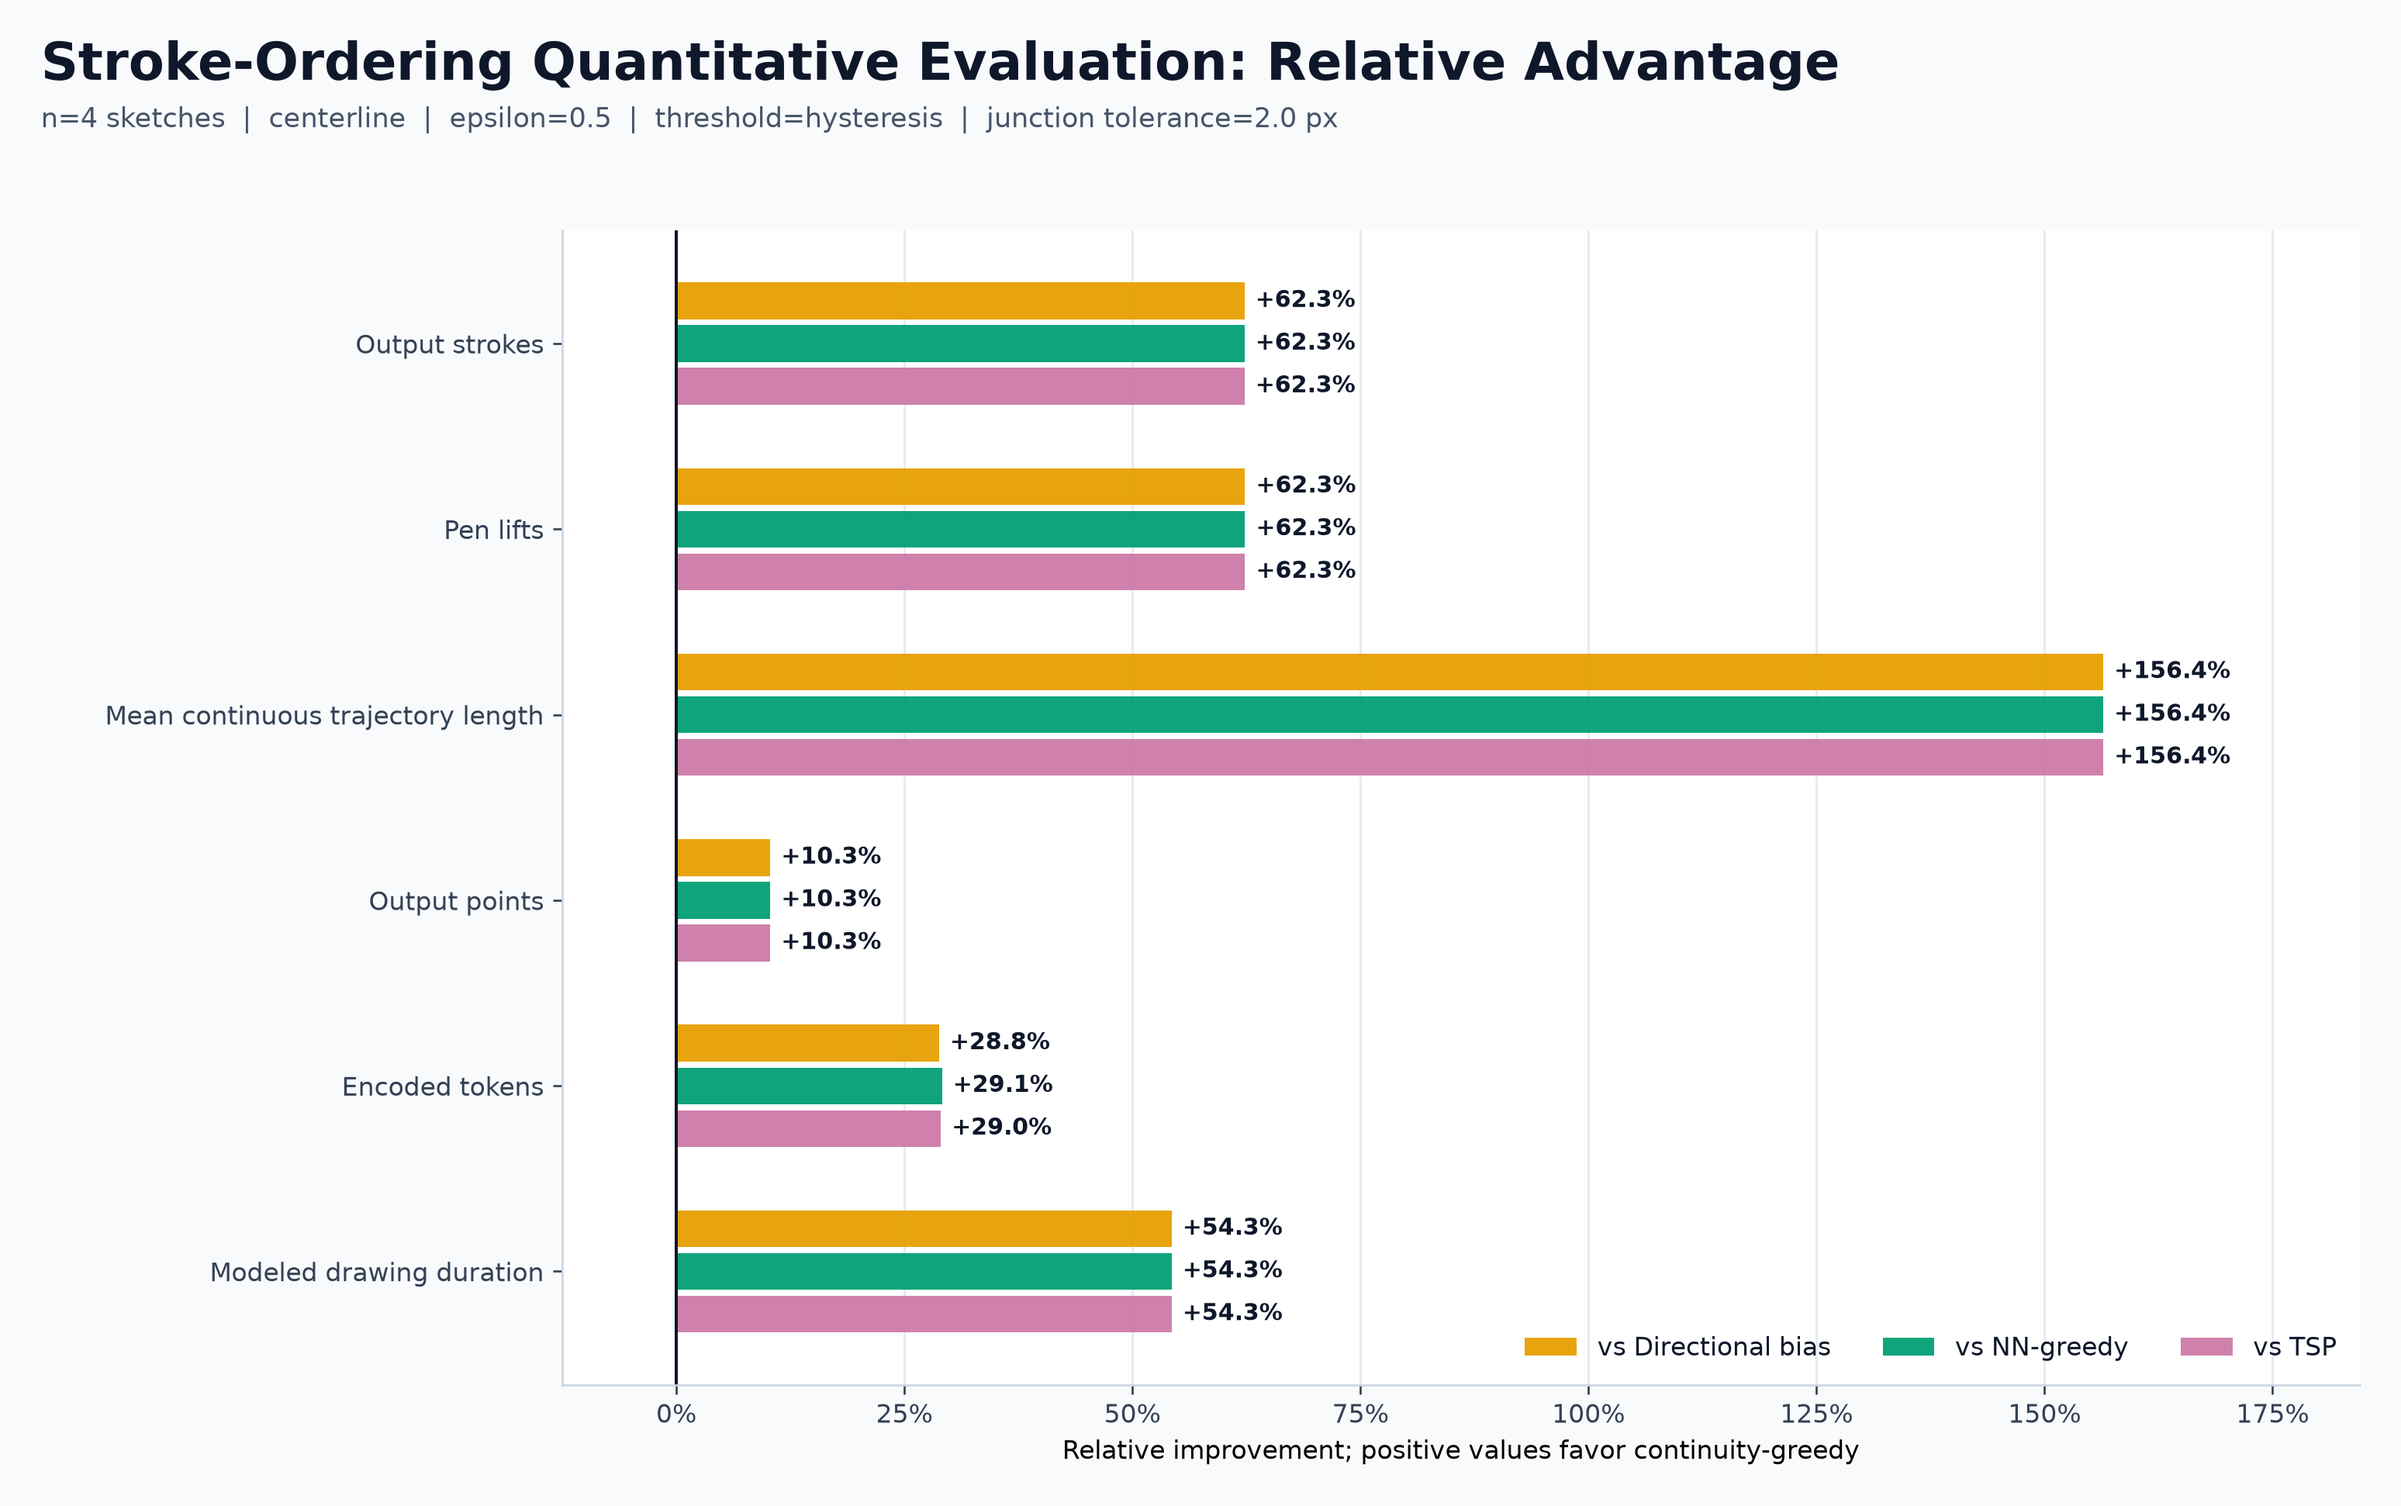
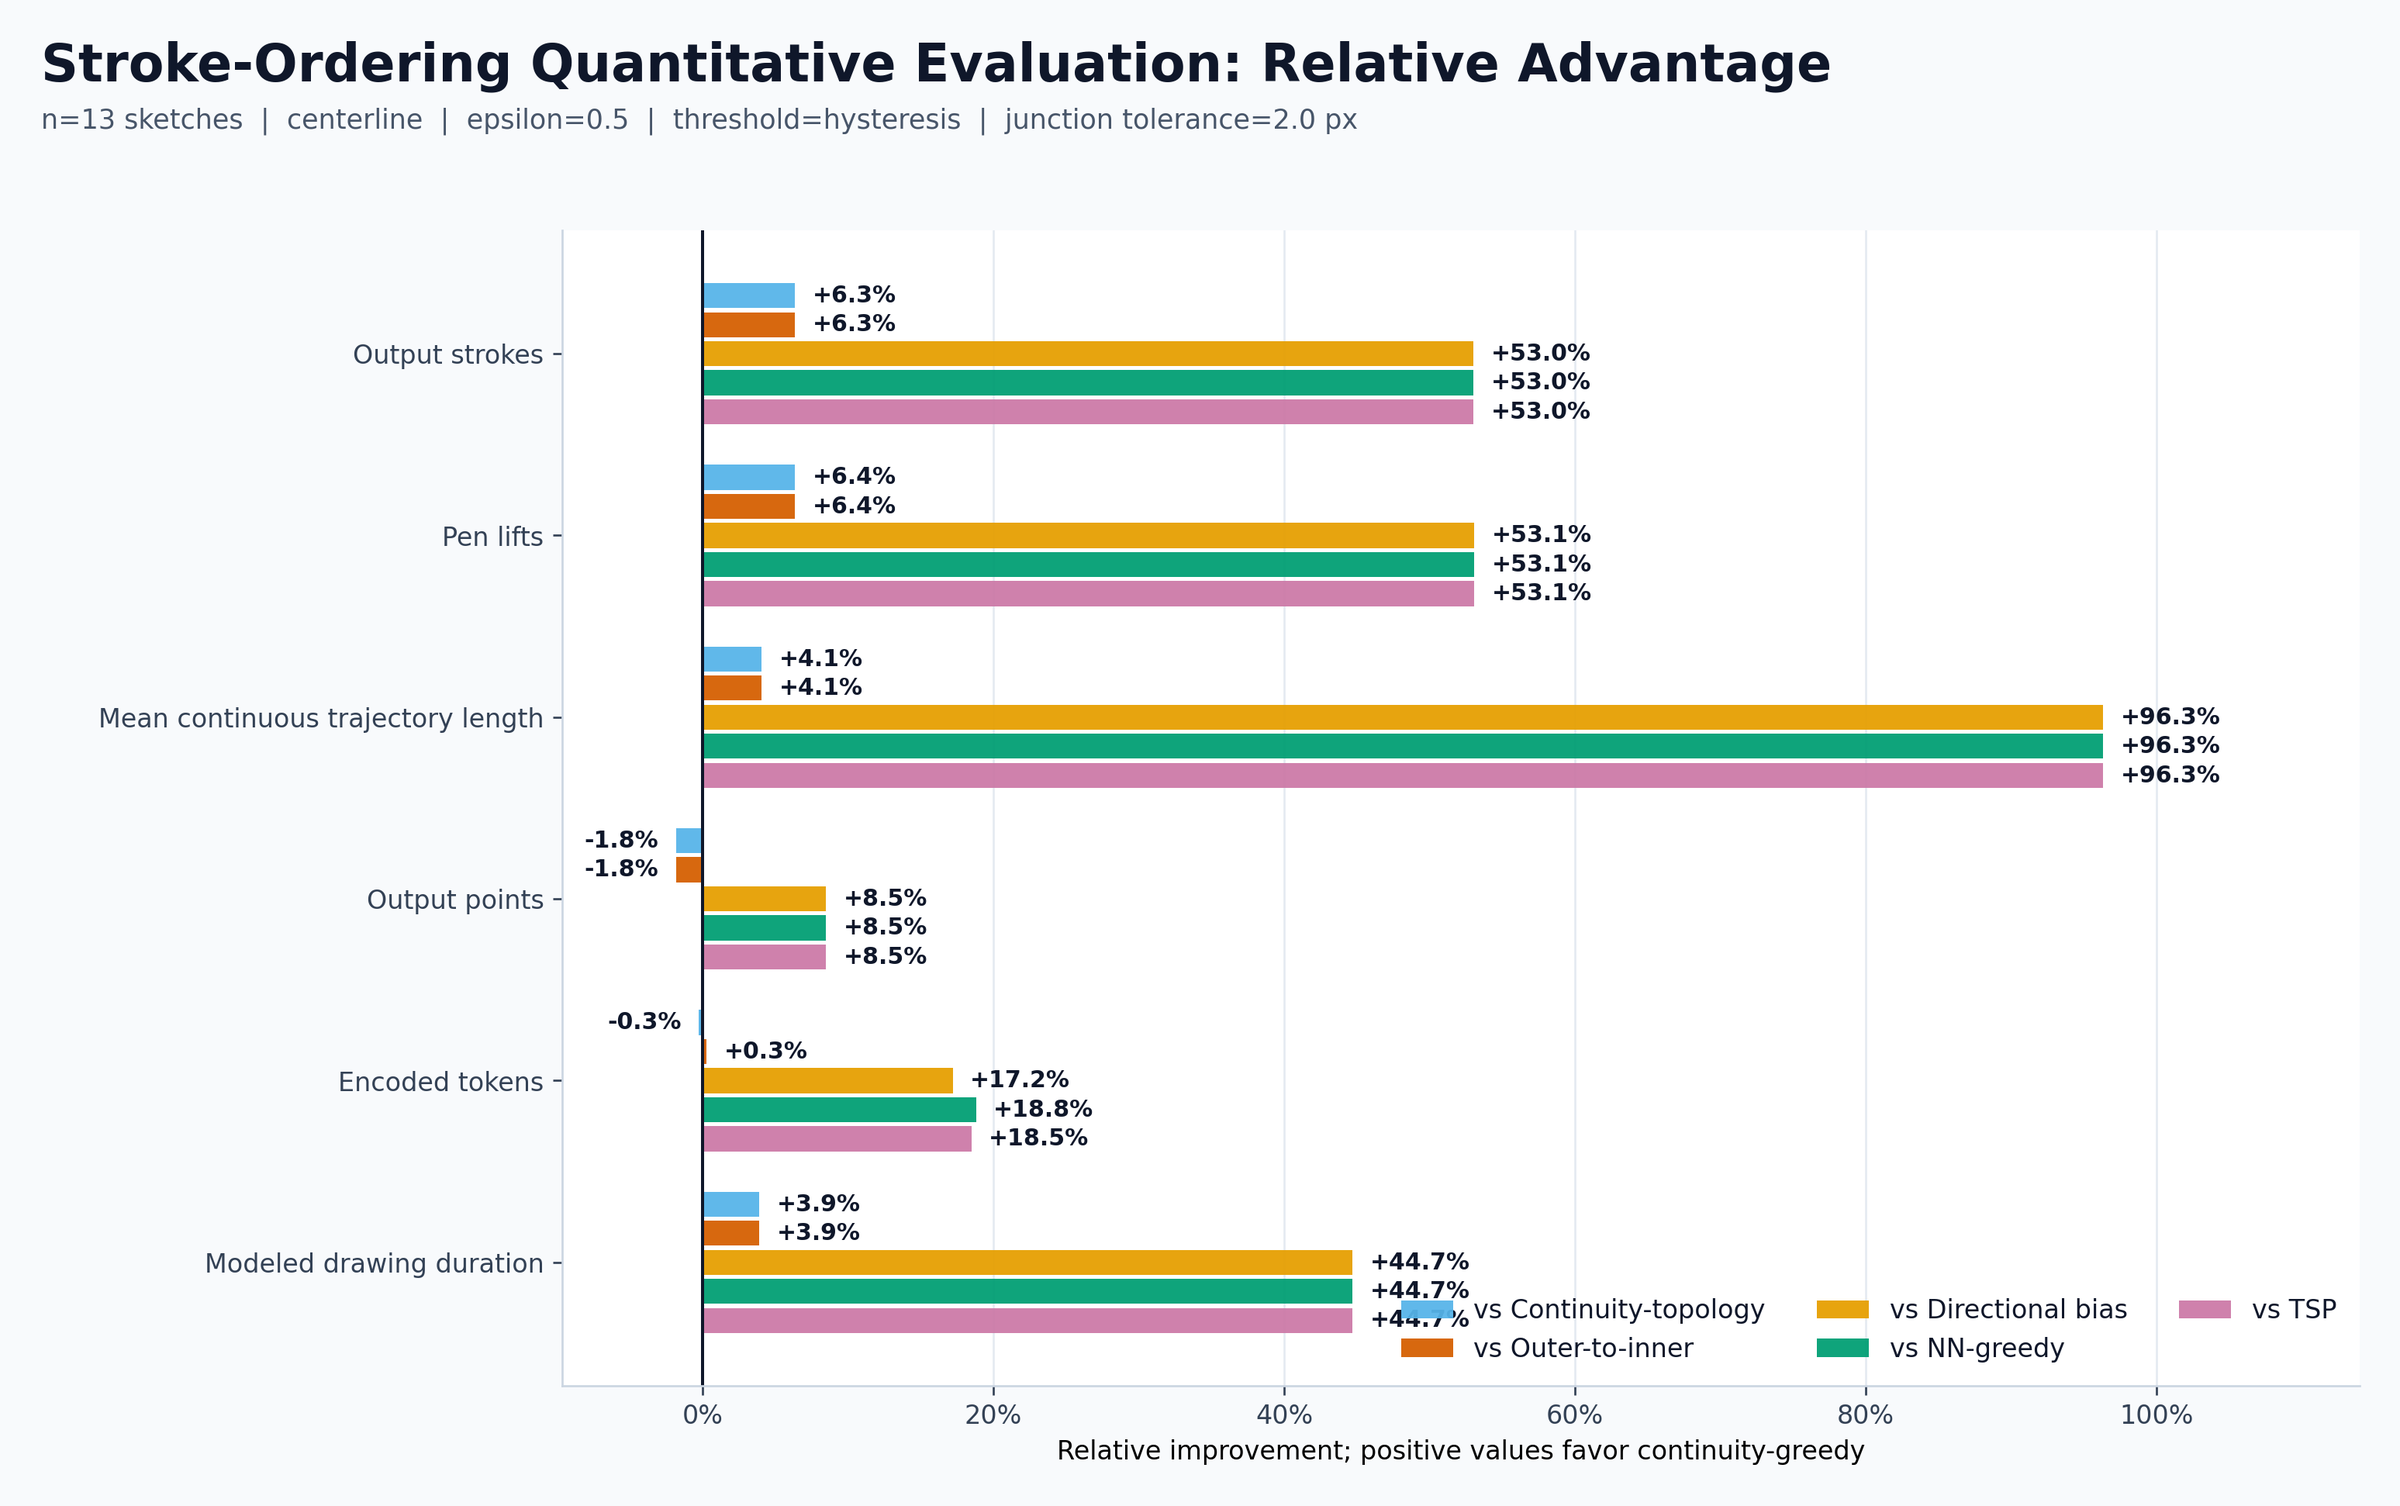
Add continuity_topology and outer_to_inner ordering evaluation
- Extended evaluate_ordering_quantitative.py with continuity_topology and
  outer_to_inner methods using CenterlineBranch graph objects
- Updated visualize_ordering_quantitative.py for 6-method layout with
  new color palette and labels
- Regenerated all 4 PNG figures with updated benchmark results

diff --git a/metrics/preprocessing/evaluate_ordering_quantitative.py b/metrics/preprocessing/evaluate_ordering_quantitative.py
@@ -15,6 +15,8 @@ import numpy as np
 
 from pipeline.ordering import (
     order_continuity_greedy,
+    order_continuity_topology,
+    order_outer_to_inner,
     order_directional_bias,
     order_greedy_nearest_neighbor,
     order_tsp,
@@ -22,8 +24,10 @@ from pipeline.ordering import (
 from pipeline.stroke5 import strokes_to_stroke5
 from pipeline.vectorization import (
     THRESHOLD_PROFILES,
+    CenterlineBranch,
     read_grayscale_image,
     vectorize_image,
+    vectorize_image_with_stats,
 )
 from utils.tokenizer import ErrorFeedbackQuantizer
 
@@ -31,9 +35,11 @@ Point = tuple[int, int]
 Stroke = list[Point]
 Orderer = Callable[[list[Stroke]], list[Stroke]]
 
-METHODS = ("continuity_greedy", "directional_bias", "nn_greedy", "tsp")
+METHODS = ("continuity_greedy", "continuity_topology", "outer_to_inner", "directional_bias", "nn_greedy", "tsp")
 METHOD_LABELS = {
     "continuity_greedy": "Continuity-greedy",
+    "continuity_topology": "Continuity-topology",
+    "outer_to_inner": "Outer-to-inner",
     "directional_bias": "Directional bias",
     "nn_greedy": "NN-greedy",
     "tsp": "TSP",
@@ -236,9 +242,40 @@ def apply_orderer(
     source_strokes: list[Stroke],
     *,
     junction_tolerance: float,
+    branches: list[CenterlineBranch] | None = None,
 ) -> list[Stroke]:
     # Each method receives an independent copy because orderers may reverse paths.
     strokes = copy.deepcopy(source_strokes)
+    if method == "continuity_topology":
+        if branches is not None:
+            return order_continuity_topology(branches)
+        synthetic = [
+            CenterlineBranch(
+                branch_id=i,
+                points=list(s),
+                start_node_id=i * 2,
+                end_node_id=i * 2 + 1,
+                component_id=i,
+                is_loop=(len(s) > 2 and s[0] == s[-1]),
+            )
+            for i, s in enumerate(strokes)
+        ]
+        return order_continuity_topology(synthetic)
+    if method == "outer_to_inner":
+        if branches is not None:
+            return order_outer_to_inner(branches)
+        synthetic = [
+            CenterlineBranch(
+                branch_id=i,
+                points=list(s),
+                start_node_id=i * 2,
+                end_node_id=i * 2 + 1,
+                component_id=i,
+                is_loop=(len(s) > 2 and s[0] == s[-1]),
+            )
+            for i, s in enumerate(strokes)
+        ]
+        return order_outer_to_inner(synthetic)
     if method == "continuity_greedy":
         return order_continuity_greedy(
             strokes,
@@ -273,11 +310,13 @@ def evaluate_method(
     normalization_extent: float,
     min_stroke_duration: float,
     delay_between_strokes: float,
+    branches: list[CenterlineBranch] | None = None,
 ) -> dict[str, object]:
     ordered = apply_orderer(
         method,
         source_strokes,
         junction_tolerance=junction_tolerance,
+        branches=branches,
     )
     if not ordered:
         raise ValueError(f"{method} produced no output for {source_image}")
@@ -472,8 +511,8 @@ def write_markdown_summary(
                 "All methods used the same vectorized input."
             ),
             "",
-            "| Metric | Better | Continuity-greedy | Directional bias | NN-greedy | TSP |",
-            "|---|---:|---:|---:|---:|---:|",
+            f"| Metric | Better | {' | '.join(METHOD_LABELS[m] for m in METHODS)} |",
+            "|---|---:|" + "---:|" * len(METHODS),
         ]
     )
 
@@ -580,12 +619,14 @@ def main() -> None:
             flush=True,
         )
         image = read_grayscale_image(image_path)
-        source_strokes = vectorize_image(
+        branches, _ = vectorize_image_with_stats(
             image_path,
             epsilon=args.epsilon,
             method="centerline",
             threshold_profile=args.threshold_profile,
+            structured=True,
         )
+        source_strokes = [list(b.points) for b in branches if len(b.points) >= 2]
         source_strokes = [list(stroke) for stroke in source_strokes if len(stroke) >= 2]
         if not source_strokes:
             skipped.append(
@@ -609,6 +650,7 @@ def main() -> None:
                     normalization_extent=args.normalization_extent,
                     min_stroke_duration=args.min_stroke_duration,
                     delay_between_strokes=args.delay_between_strokes,
+                    branches=branches,
                 )
             )
 

diff --git a/metrics/preprocessing/visualize_ordering_quantitative.py b/metrics/preprocessing/visualize_ordering_quantitative.py
@@ -17,16 +17,20 @@ import numpy as np
 from matplotlib.colors import LinearSegmentedColormap
 from matplotlib.ticker import FuncFormatter, PercentFormatter
 
-METHODS = ("continuity_greedy", "directional_bias", "nn_greedy", "tsp")
+METHODS = ("continuity_greedy", "continuity_topology", "outer_to_inner", "directional_bias", "nn_greedy", "tsp")
 BASELINES = METHODS[1:]
 METHOD_LABELS = {
     "continuity_greedy": "Continuity-greedy",
+    "continuity_topology": "Continuity-topology",
+    "outer_to_inner": "Outer-to-inner",
     "directional_bias": "Directional bias",
     "nn_greedy": "NN-greedy",
     "tsp": "TSP",
 }
 METHOD_COLORS = {
     "continuity_greedy": "#0072B2",
+    "continuity_topology": "#56B4E9",
+    "outer_to_inner": "#D55E00",
     "directional_bias": "#E69F00",
     "nn_greedy": "#009E73",
     "tsp": "#CC79A7",
@@ -148,11 +152,11 @@ def load_report(path: Path) -> dict[str, Any]:
     if missing:
         raise ValueError(f"Evaluation report is missing keys: {sorted(missing)}")
 
-    for method in METHODS:
-        if method not in report["summary"]:
-            raise ValueError(f"Evaluation summary is missing method: {method}")
+    active_methods = [m for m in METHODS if m in report["summary"]]
+    if not active_methods:
+        raise ValueError(f"Evaluation summary is missing all known methods: {METHODS}")
     for metric in METRICS:
-        for method in METHODS:
+        for method in active_methods:
             if metric not in report["summary"][method]:
                 raise ValueError(f"Summary for {method} is missing metric: {metric}")
         if metric not in report["continuity_head_to_head"]:
@@ -265,16 +269,17 @@ def build_executive_dashboard(
 
     for axis, metric in zip(axes_flat, CORE_METRICS):
         specification = METRICS[metric]
-        values = [metric_mean(report, method, metric) for method in METHODS]
-        positions = np.arange(len(METHODS))
+        active_methods = [m for m in METHODS if m in report["summary"]]
+        values = [metric_mean(report, method, metric) for method in active_methods]
+        positions = np.arange(len(active_methods))
         bars = axis.barh(
             positions,
             values,
-            color=[METHOD_COLORS[method] for method in METHODS],
+            color=[METHOD_COLORS[method] for method in active_methods],
             height=0.62,
             alpha=0.94,
         )
-        axis.set_yticks(positions, [METHOD_LABELS[method] for method in METHODS])
+        axis.set_yticks(positions, [METHOD_LABELS[method] for method in active_methods])
         axis.invert_yaxis()
         axis.set_title(
             f"{specification['label']}\n{specification['direction'].title()} is better",
@@ -352,7 +357,7 @@ def build_relative_improvement_chart(
 ) -> dict[str, Any]:
     figure, axis = plt.subplots(figsize=(14, 8.5))
     positions = np.arange(len(CORE_METRICS))
-    bar_height = 0.23
+    bar_height = 0.8 / max(1, len(BASELINES))
 
     all_values: list[float] = []
     for baseline_index, baseline in enumerate(BASELINES):
@@ -366,7 +371,7 @@ def build_relative_improvement_chart(
                 )
             )
         all_values.extend(value for value in improvements if math.isfinite(value))
-        offsets = positions + (baseline_index - 1) * bar_height
+        offsets = positions + (baseline_index - (len(BASELINES) - 1) / 2.0) * bar_height
         bars = axis.barh(
             offsets,
             improvements,
